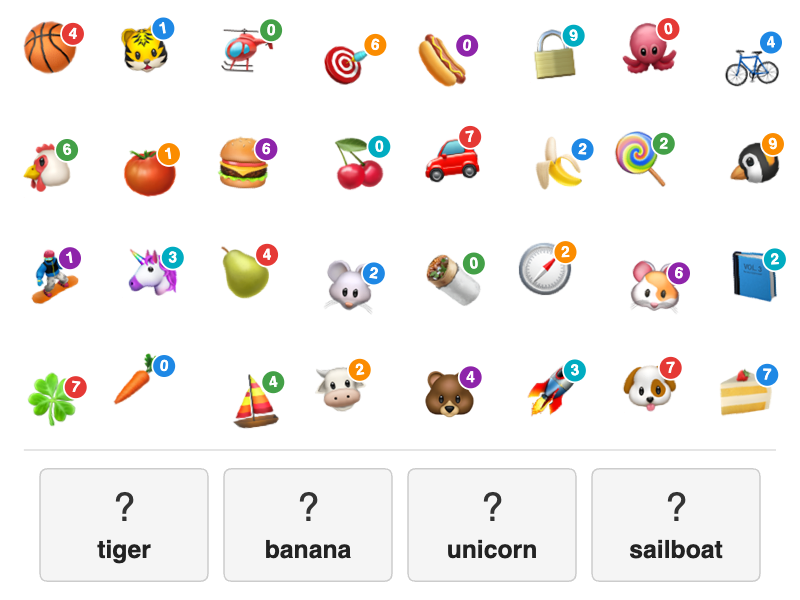
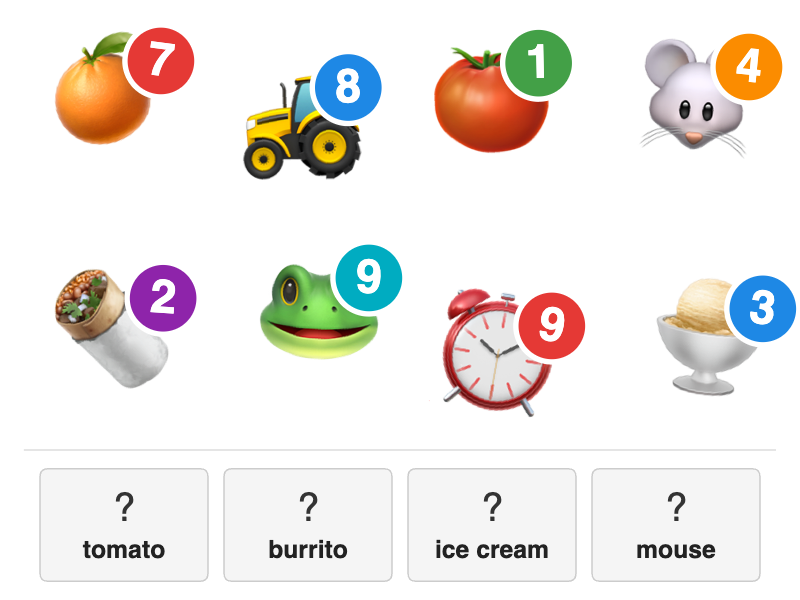
Adjust "Emoji Word Match" default settings: reduce distractor count, expand emoji size range, and update default values.

diff --git a/17_emoji_word_match/index.html b/17_emoji_word_match/index.html
@@ -14,11 +14,11 @@
 
 <!-- === creativity controls === -->
 <label>Distractor pairs
-  <input id=distractors type=range min=4 max=30 value=14>
+  <input id=distractors type=range min=0 max=30 value=4>
 </label><br>
 
 <label>Emoji size (% of H)
-  <input id=emojiSize type=range min=3 max=20 value=12>
+  <input id=emojiSize type=range min=3 max=40 value=20>
 </label><br>
 
 <label>Badge size (% of emoji)
@@ -241,7 +241,7 @@ const NAME = 'emoji_word_match_v2';
 
 const DEF = {
   w: 800, h: 600, code: '1234',
-  distractors: 14, emojiSize: 12, badgeSize: 60,
+  distractors: 4, emojiSize: 20, badgeSize: 60,
   rotation: 10, jitter: 20, category: 'all', lang: 'en',
   badgeShape: 'circle', shadow: false, shadowBlur: 6,
   areaSplit: 75, dotMode: false
